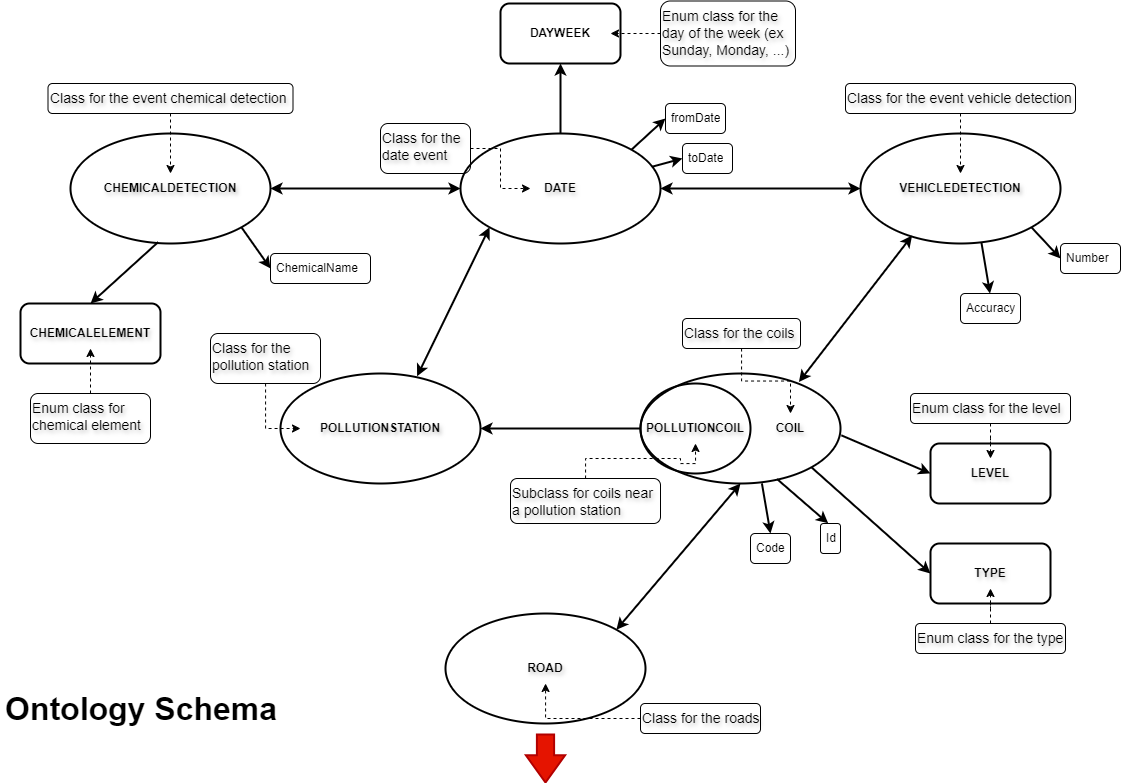
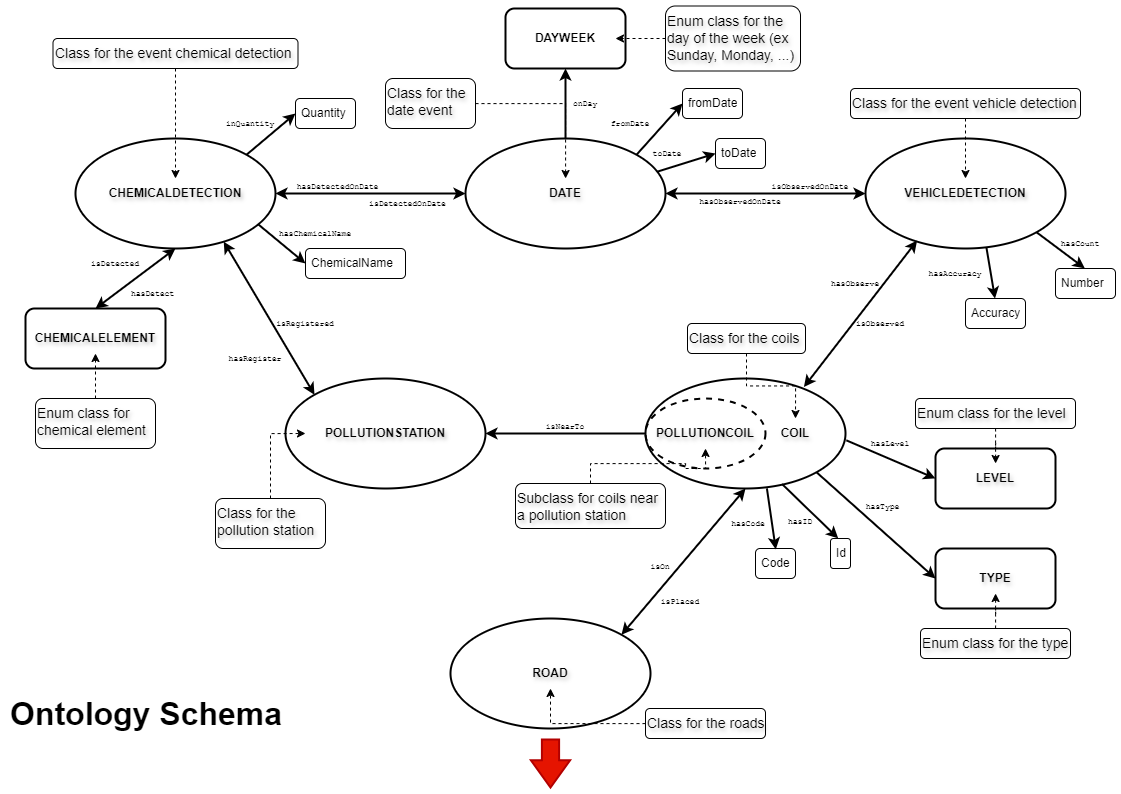
Modify ontology file (.ttl) + correction of the ontology schema

diff --git a/development/ontology/pollution-traffic ontology/README.md b/development/ontology/pollution-traffic ontology/README.md
@@ -4,3 +4,7 @@
 
 This is the schema of the ontology
 ![ontology-clip](img/ontology_graph_visual.png)
+
+## Graph view from Protégé ##
+
+![graph-clip](img/protege_graph_view.png)
